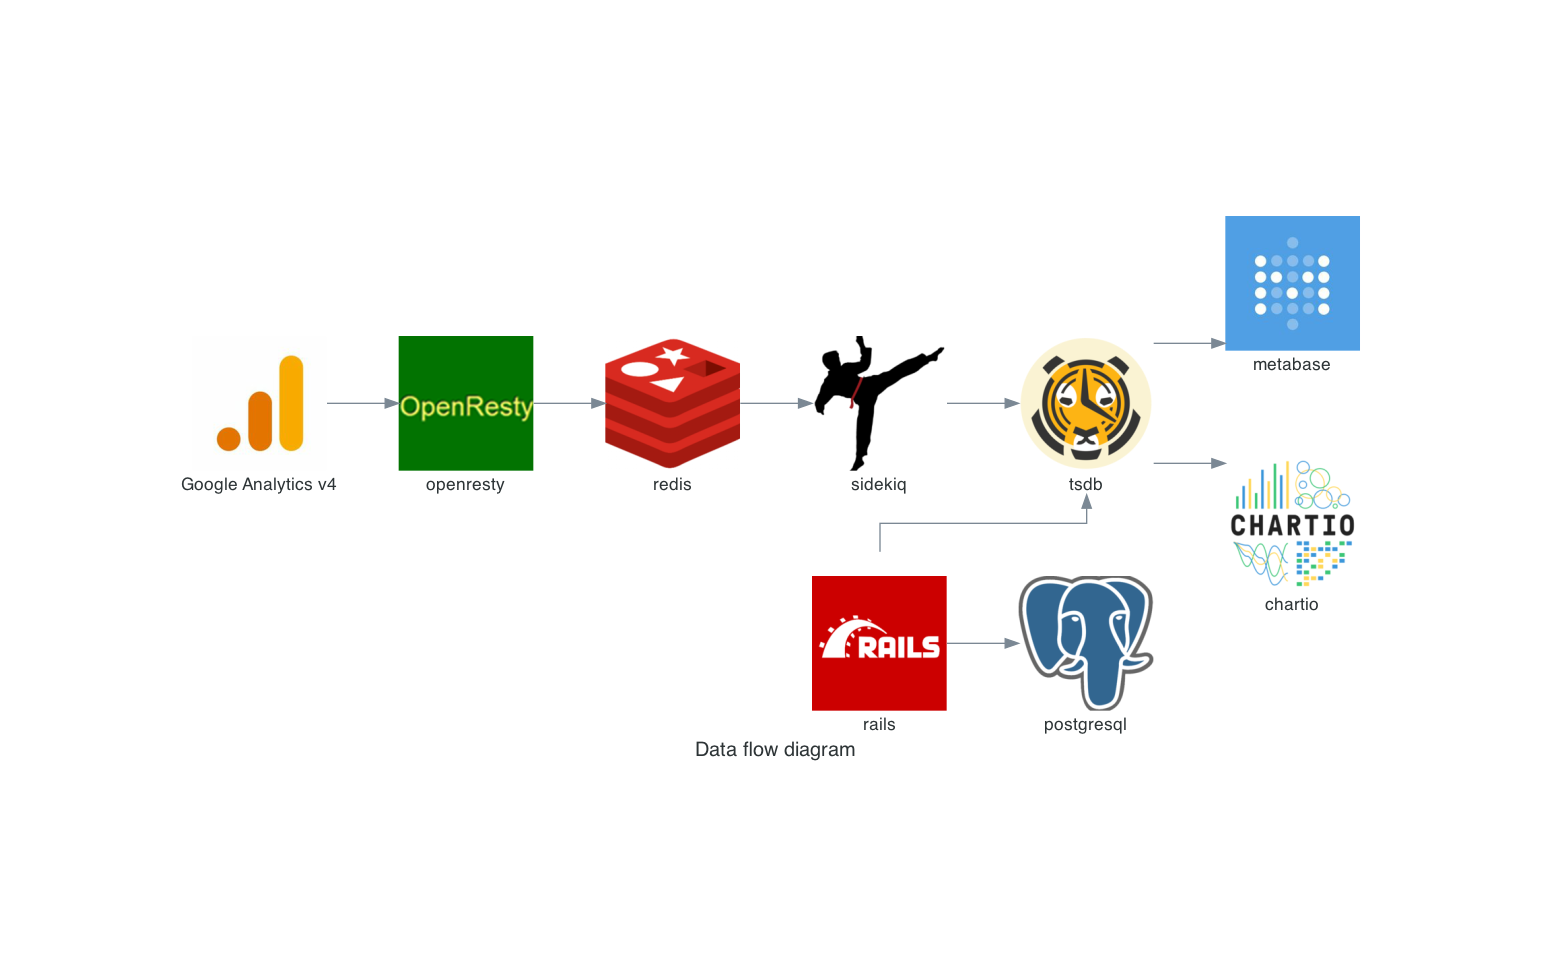
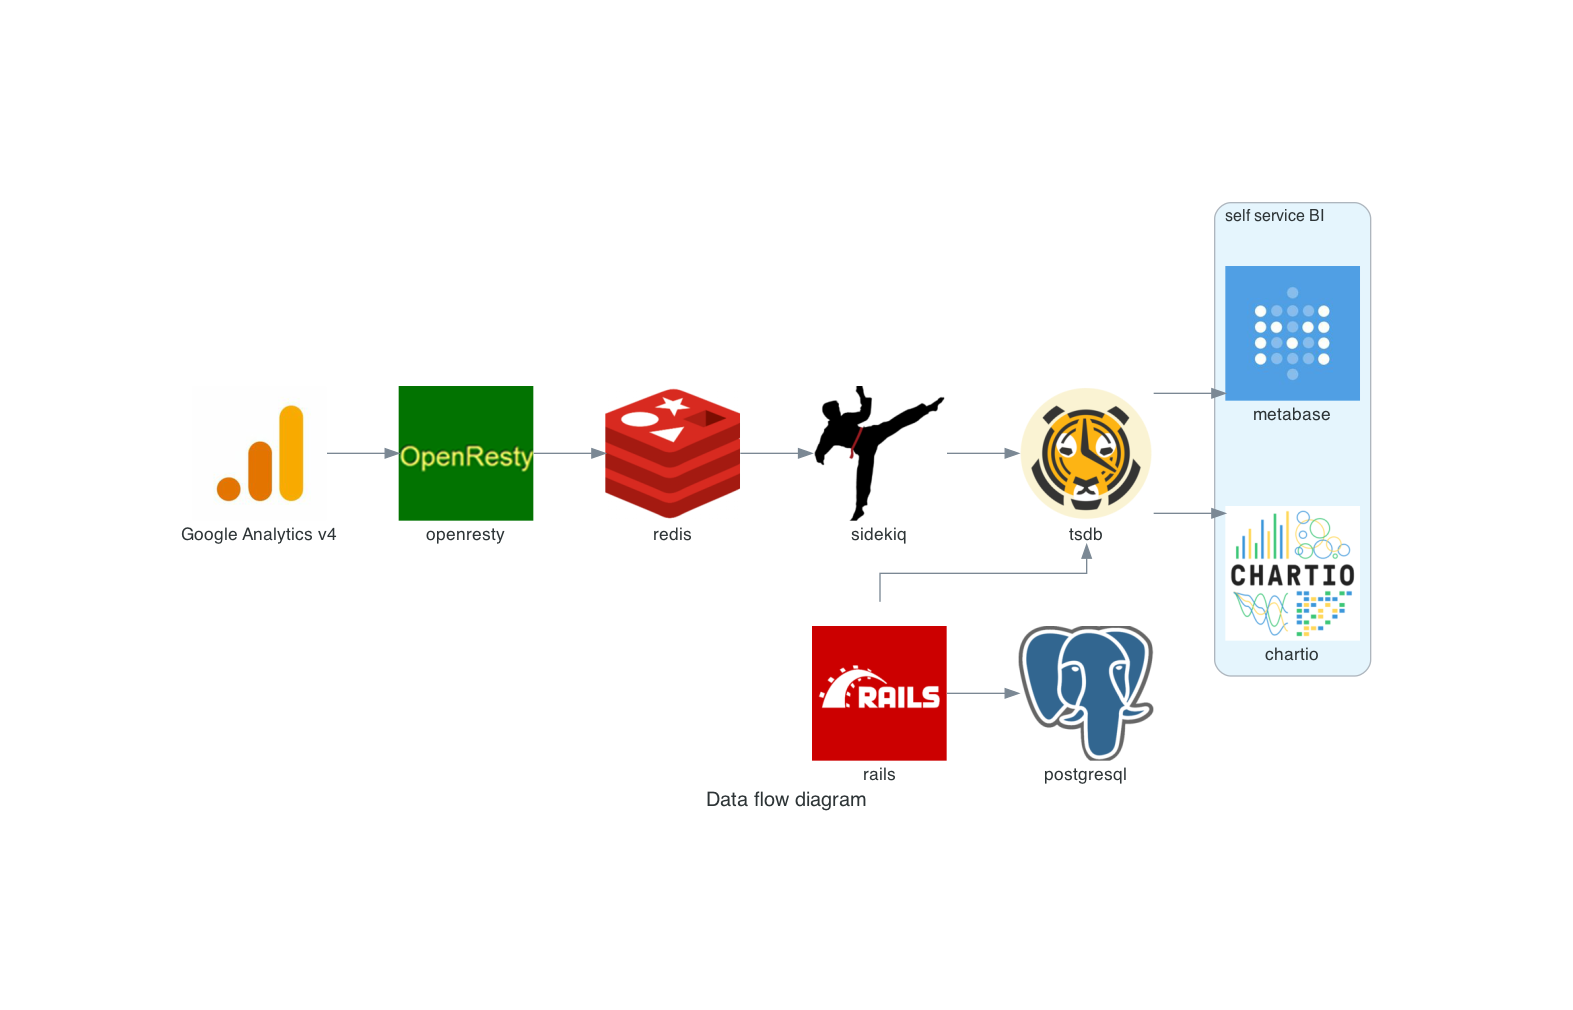
fix ci

Changed region(s): [[0.2474, 0.3438, 0.7423, 0.8125], [0.6186, 0.1875, 0.8969, 0.6875], [0.1237, 0.375, 0.2165, 0.5312]]

diff --git a/diagrams/data_flow.py b/diagrams/data_flow.py
@@ -9,12 +9,13 @@ with Diagram("Data flow diagram", show=False):
     rails = Custom("rails", "./imgs/rails.png")
     postgresql = Custom("postgresql", "./imgs/postgresql.png")
     timescaledb = Custom("tsdb", "./imgs/TimescaleDB.png")
-    metabase = Custom("metabase", "./imgs/metabase.png")
-    chartio = Custom("chartio", "./imgs/chartio.png")
+    
 
-    with Cluster("visual BI"):
+    with Cluster("self service BI"):
+        metabase = Custom("metabase", "./imgs/metabase.png")
+        chartio = Custom("chartio", "./imgs/chartio.png")
         bi = [metabase, chartio]
-
-    ga >> openresty >> redis >> sidekiq >> timescaledb
+    
     rails >> [postgresql, timescaledb]
+    ga >> openresty >> redis >> sidekiq >> timescaledb
     timescaledb >> bi 
